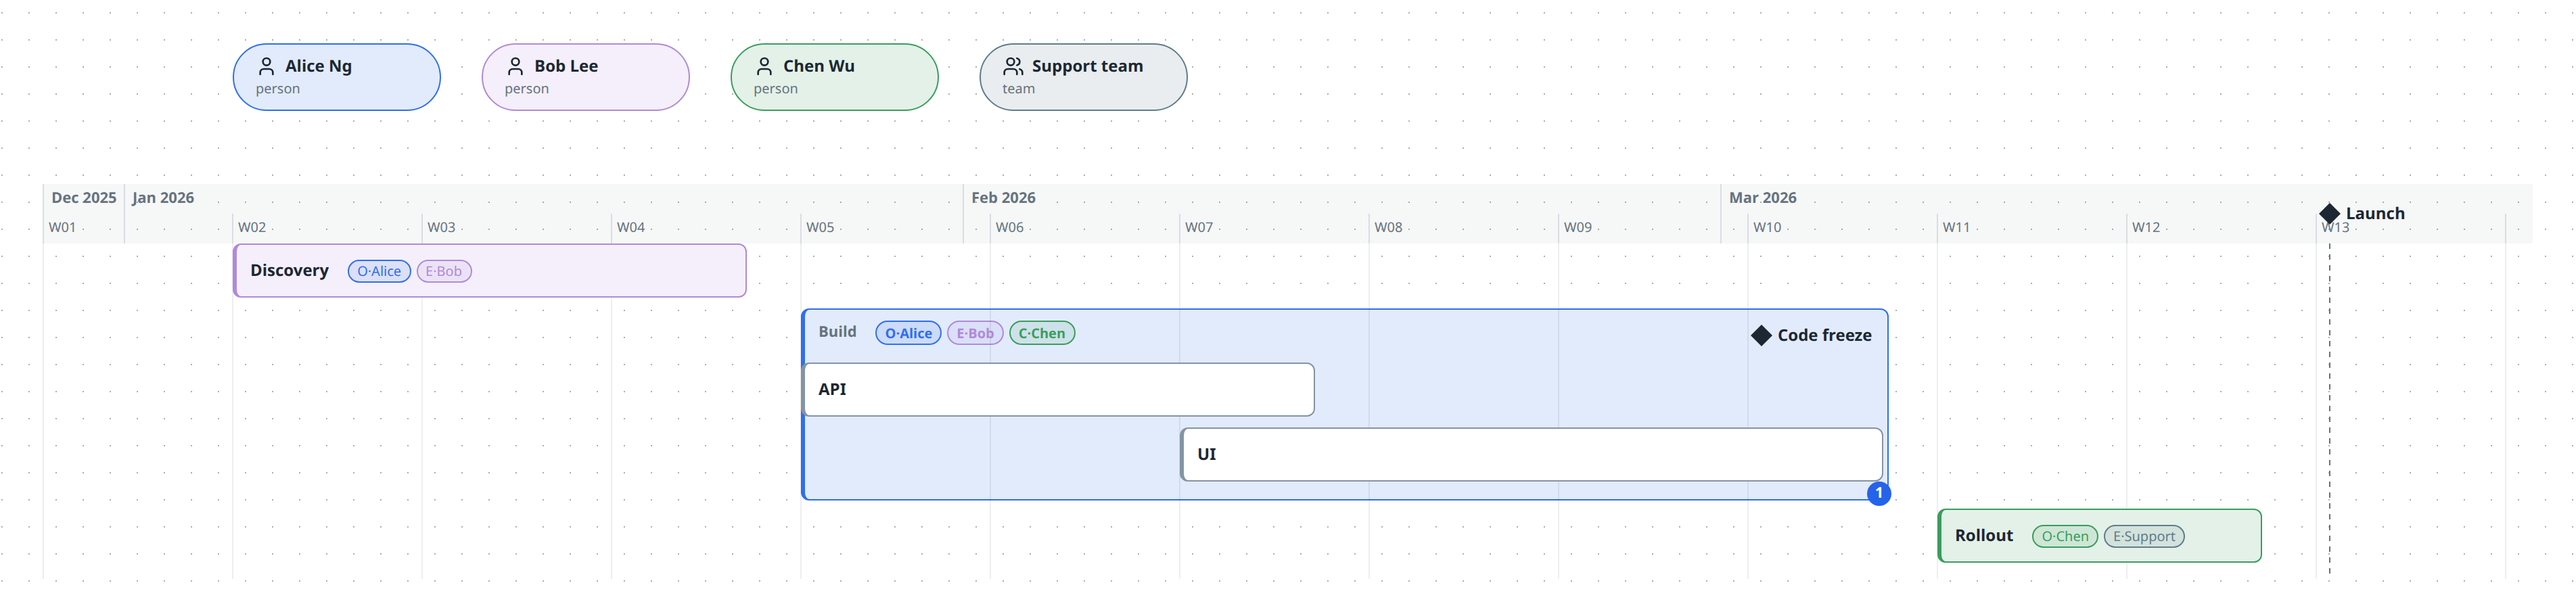
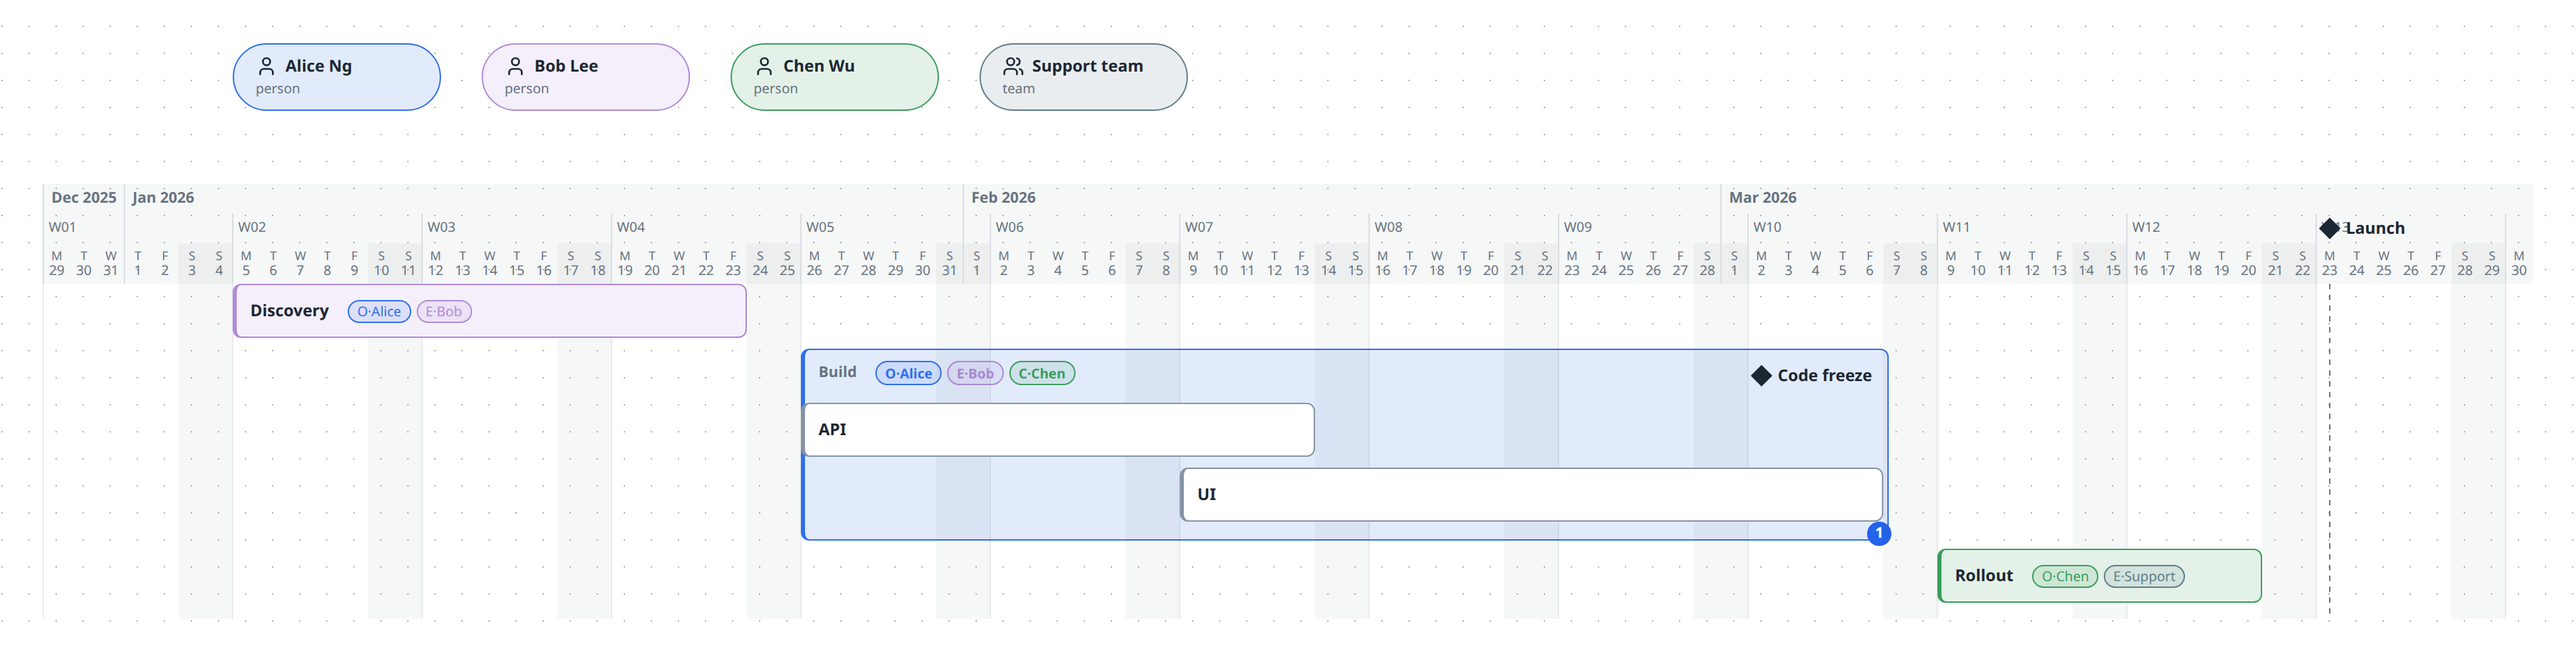
docs: the plan header's day row

diff --git a/docs/reference/model.md b/docs/reference/model.md
@@ -450,7 +450,7 @@ A plane with `notation: 'plan'` is a schedule: a calendar runs left to right and
 | Type | Look | Role |
 | --- | --- | --- |
 | `plan-zone` | a rounded bar tinted with the node's `color`, a thick left edge, title top-left, role chips after the title; `(end − start + 1)` days wide | A phase or work item. A container: what it contains is scheduled in it — nested zones one row each (by start date) and events in its title strip, both automatic; any other node (a scheduled C4 container, a plain box) is free-form instead, wrapped into rows only until it is dragged, and stays wherever it is put after that. |
-| `plan-event` | a 16 px diamond, name beside it | A point in time. Top-level events sit in the header with a dashed rule down the chart. |
+| `plan-event` | a 16 px diamond, name beside it | A point in time. Top-level events sit in the header's week row with a dashed rule down the chart. |
 | `person` | the ordinary pill | An individual actor. Listed in a roster strip above the header (left to right, wrapping into further rows); attached to zones by role relations, never containment. |
 | `team` | the ordinary pill, a `users` icon | A group actor — same deal as `person`, drawn in the same roster and holding roles the same way, for when a role belongs to a team rather than one individual. |
 
@@ -461,7 +461,7 @@ Relation kinds `owns`, `executes`, `checks` — drawn **from the actor (a person
 | `start`, `end` | `plan-zone` | `YYYY-MM-DD`; `end` inclusive; `end ≥ start` |
 | `at` | `plan-event` | `YYYY-MM-DD` |
 
-Dates live in `metadata` (the git-graph `from`/`to` pattern) so a zone is an ordinary node everywhere else. The x origin is 1 January of the earliest year in the plan; the header extends a week either side of the dated range.
+Dates live in `metadata` (the git-graph `from`/`to` pattern) so a zone is an ordinary node everywhere else. The x origin is 1 January of the earliest year in the plan; the header extends a week either side of the dated range. It has three rows — months, ISO weeks, and days (weekday letter over day of the month) — with weekends shaded down the chart and, on a page or in the studio, today's day marked.
 
 See [Draw a plan](../how-to/draw-a-plan.md).
 

diff --git a/docs/how-to/draw-a-plan.md b/docs/how-to/draw-a-plan.md
@@ -60,7 +60,8 @@ export default m;
 - **`x` is always the date — the layout owns it.** `y` is free only for a top-level zone (drag it up or down to reorder); nested zones and events inside a zone are rows, automatic and sorted by start date. Any other node inside a zone (a scheduled C4 container, a plain box) is free-form instead: it stays wherever you drag it, and the bar grows to fit.
 - **Actors are relations, not containment.** `owns` / `executes` / `checks` runs from the actor — a person or a team — to the zone, so one actor can hold a role on many zones, and a zone can be shared by several actors in the same role.
 - **Role relations never draw as arrows.** `owns`, `executes` and `checks` become the `O·` / `E·` / `C·` chips on the zone instead. Any other relation kind between two zones (`sync`, …) draws as an ordinary dependency arrow.
-- **The today line follows the reader's clock, and it is never in the PNG.** An export has no "tomorrow" to be wrong about, so publishing draws the header with no today line at all — open the page instead to see it.
+- **The header has three rows: months, ISO weeks, and days.** Each day shows its weekday letter over the day of the month, and weekends are shaded down the whole chart, so a bar's start and end read against real dates.
+- **Today follows the reader's clock, and it is never in the PNG.** On the page and in the studio, today's day is filled in the accent colour with a line down the chart. An export has no "tomorrow" to be wrong about, so publishing draws the header without it — open the page instead to see it.
 - **Five validation codes are specific to a plan:** `plan-date` (a date isn't real `YYYY-MM-DD`), `plan-missing` (a zone lacks `start`/`end`, or an event lacks `at`), `plan-span` (a zone's `end` is before its `start`), `plan-nested` (a nested zone or event falls outside its parent's span), `plan-role-target` (a role relation points at something other than a `plan-zone`).
 - Hand-ordering the ROWS a zone's nested zones and events fall into is still a follow-up — not yet built; those rows sort by start date only. A free-form child (see above) is already hand-placed — it was never in that row order to begin with.
 
